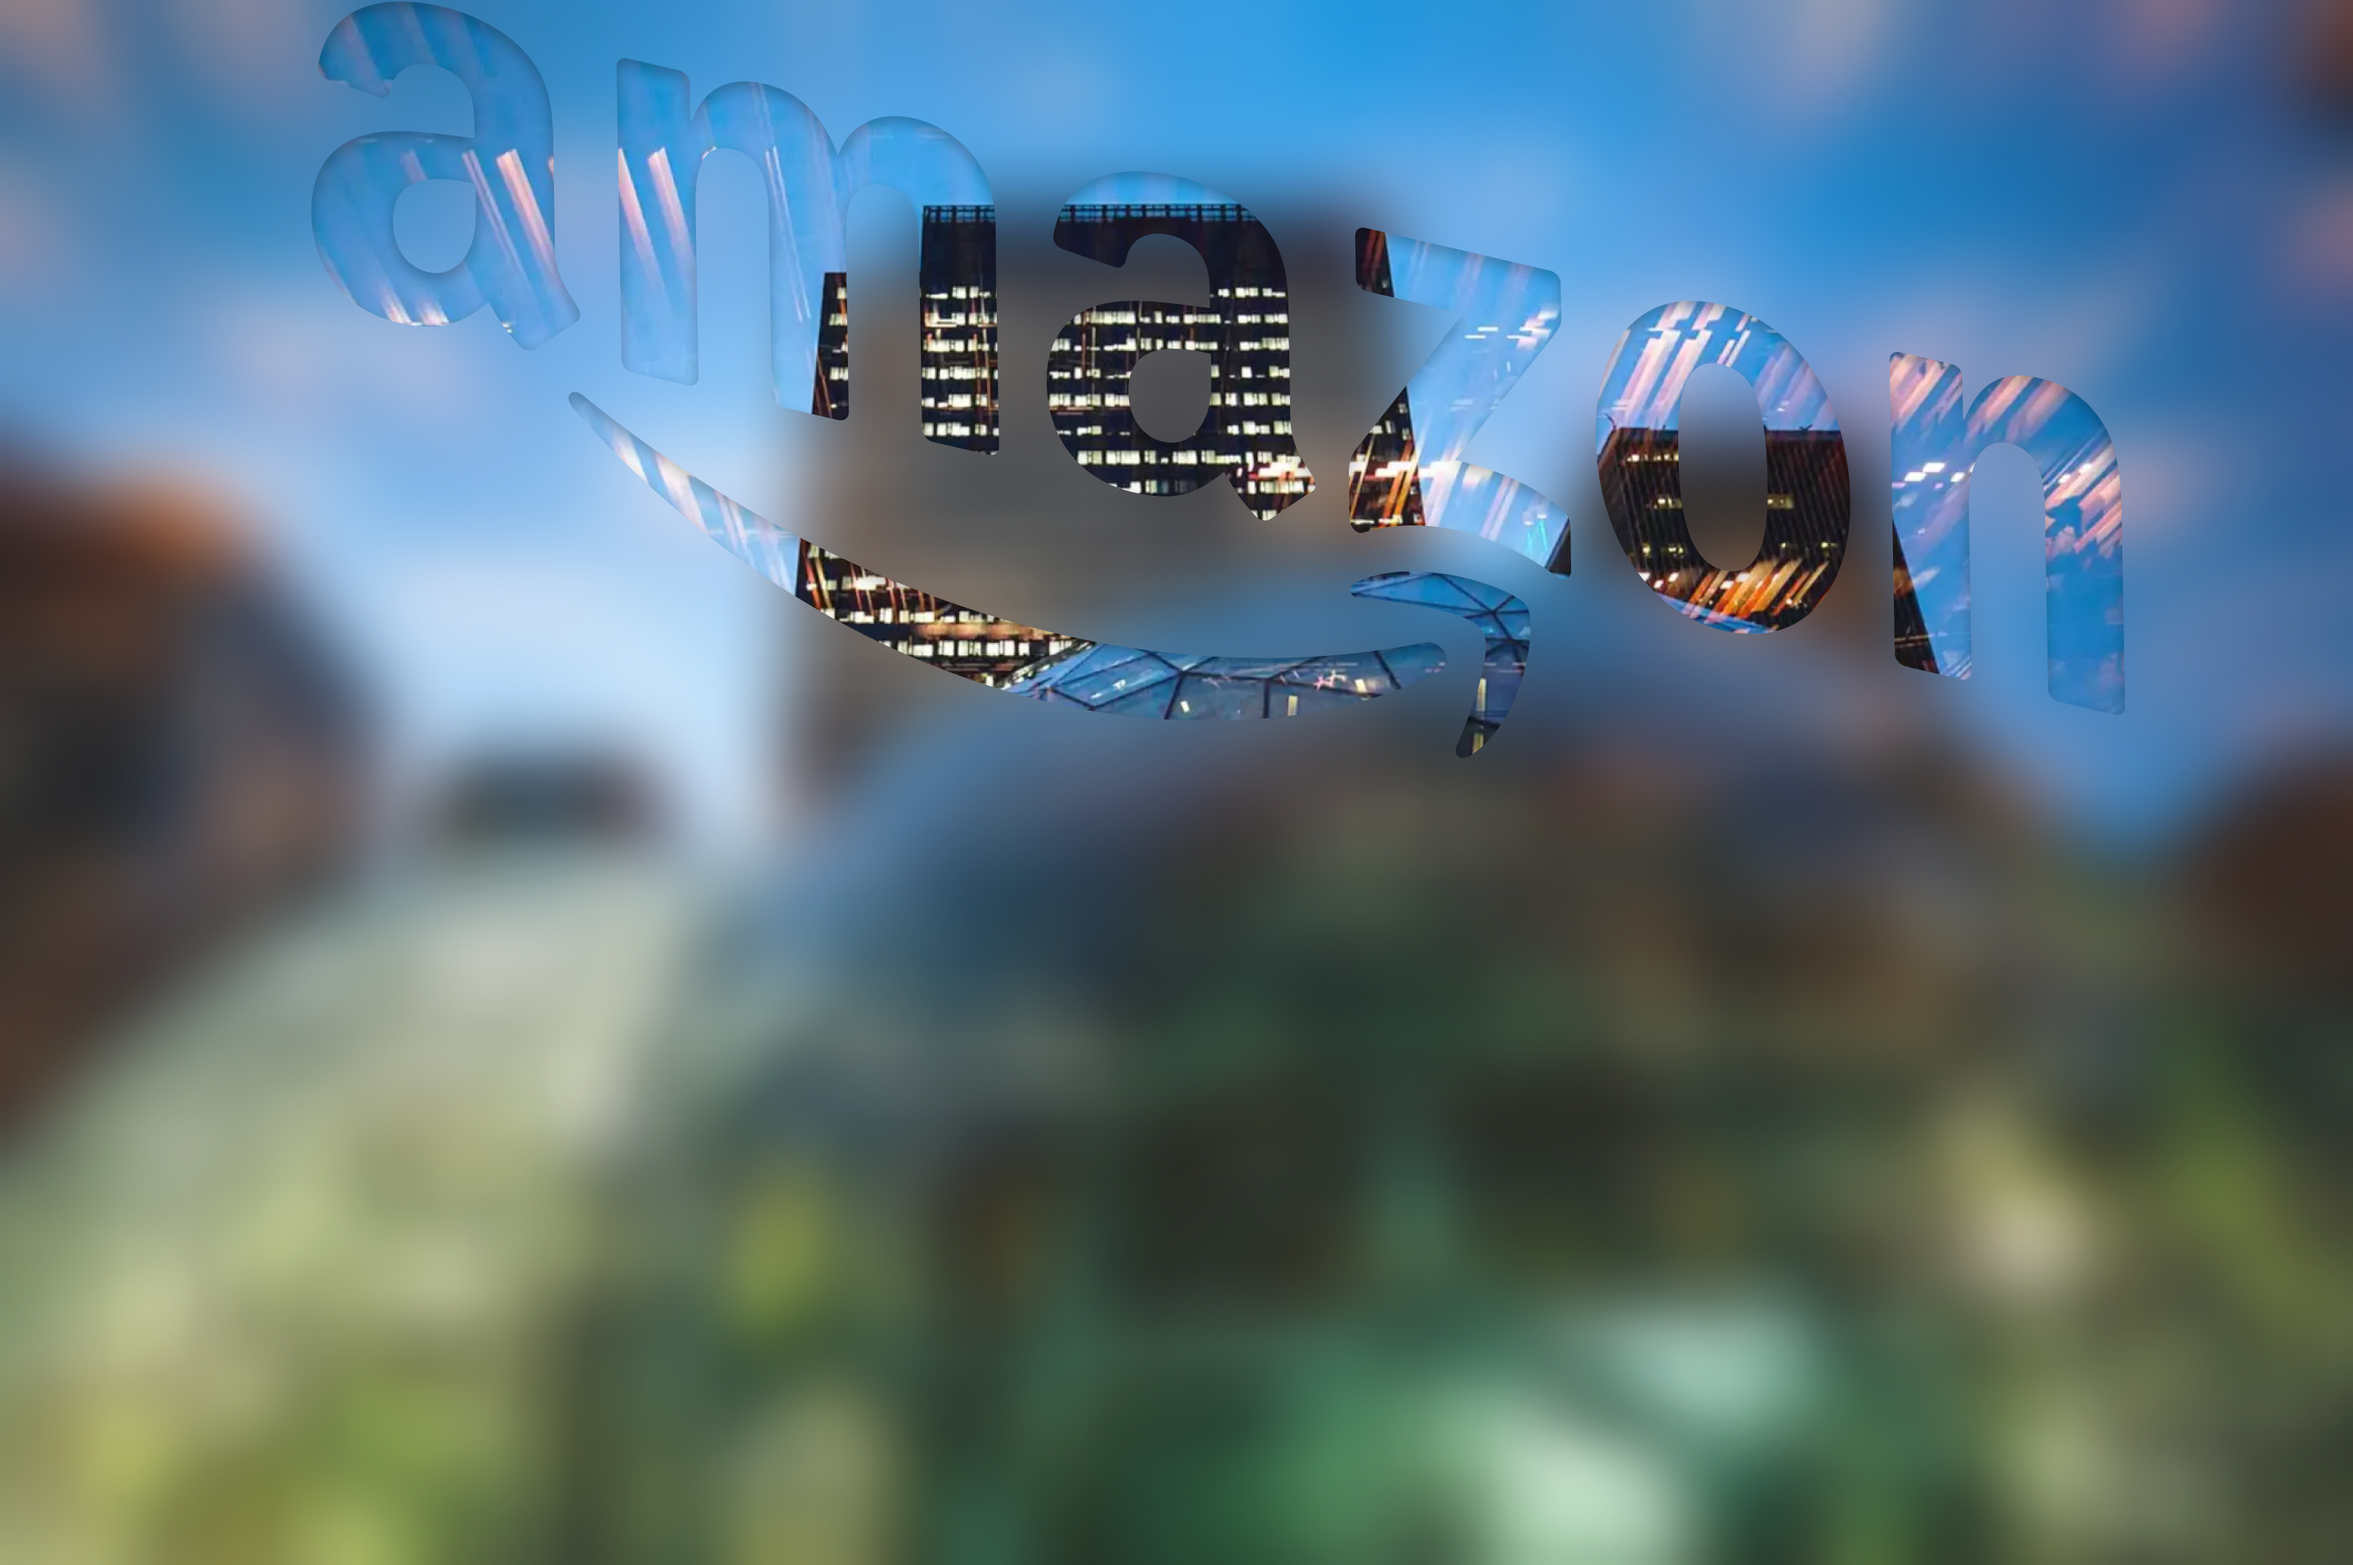
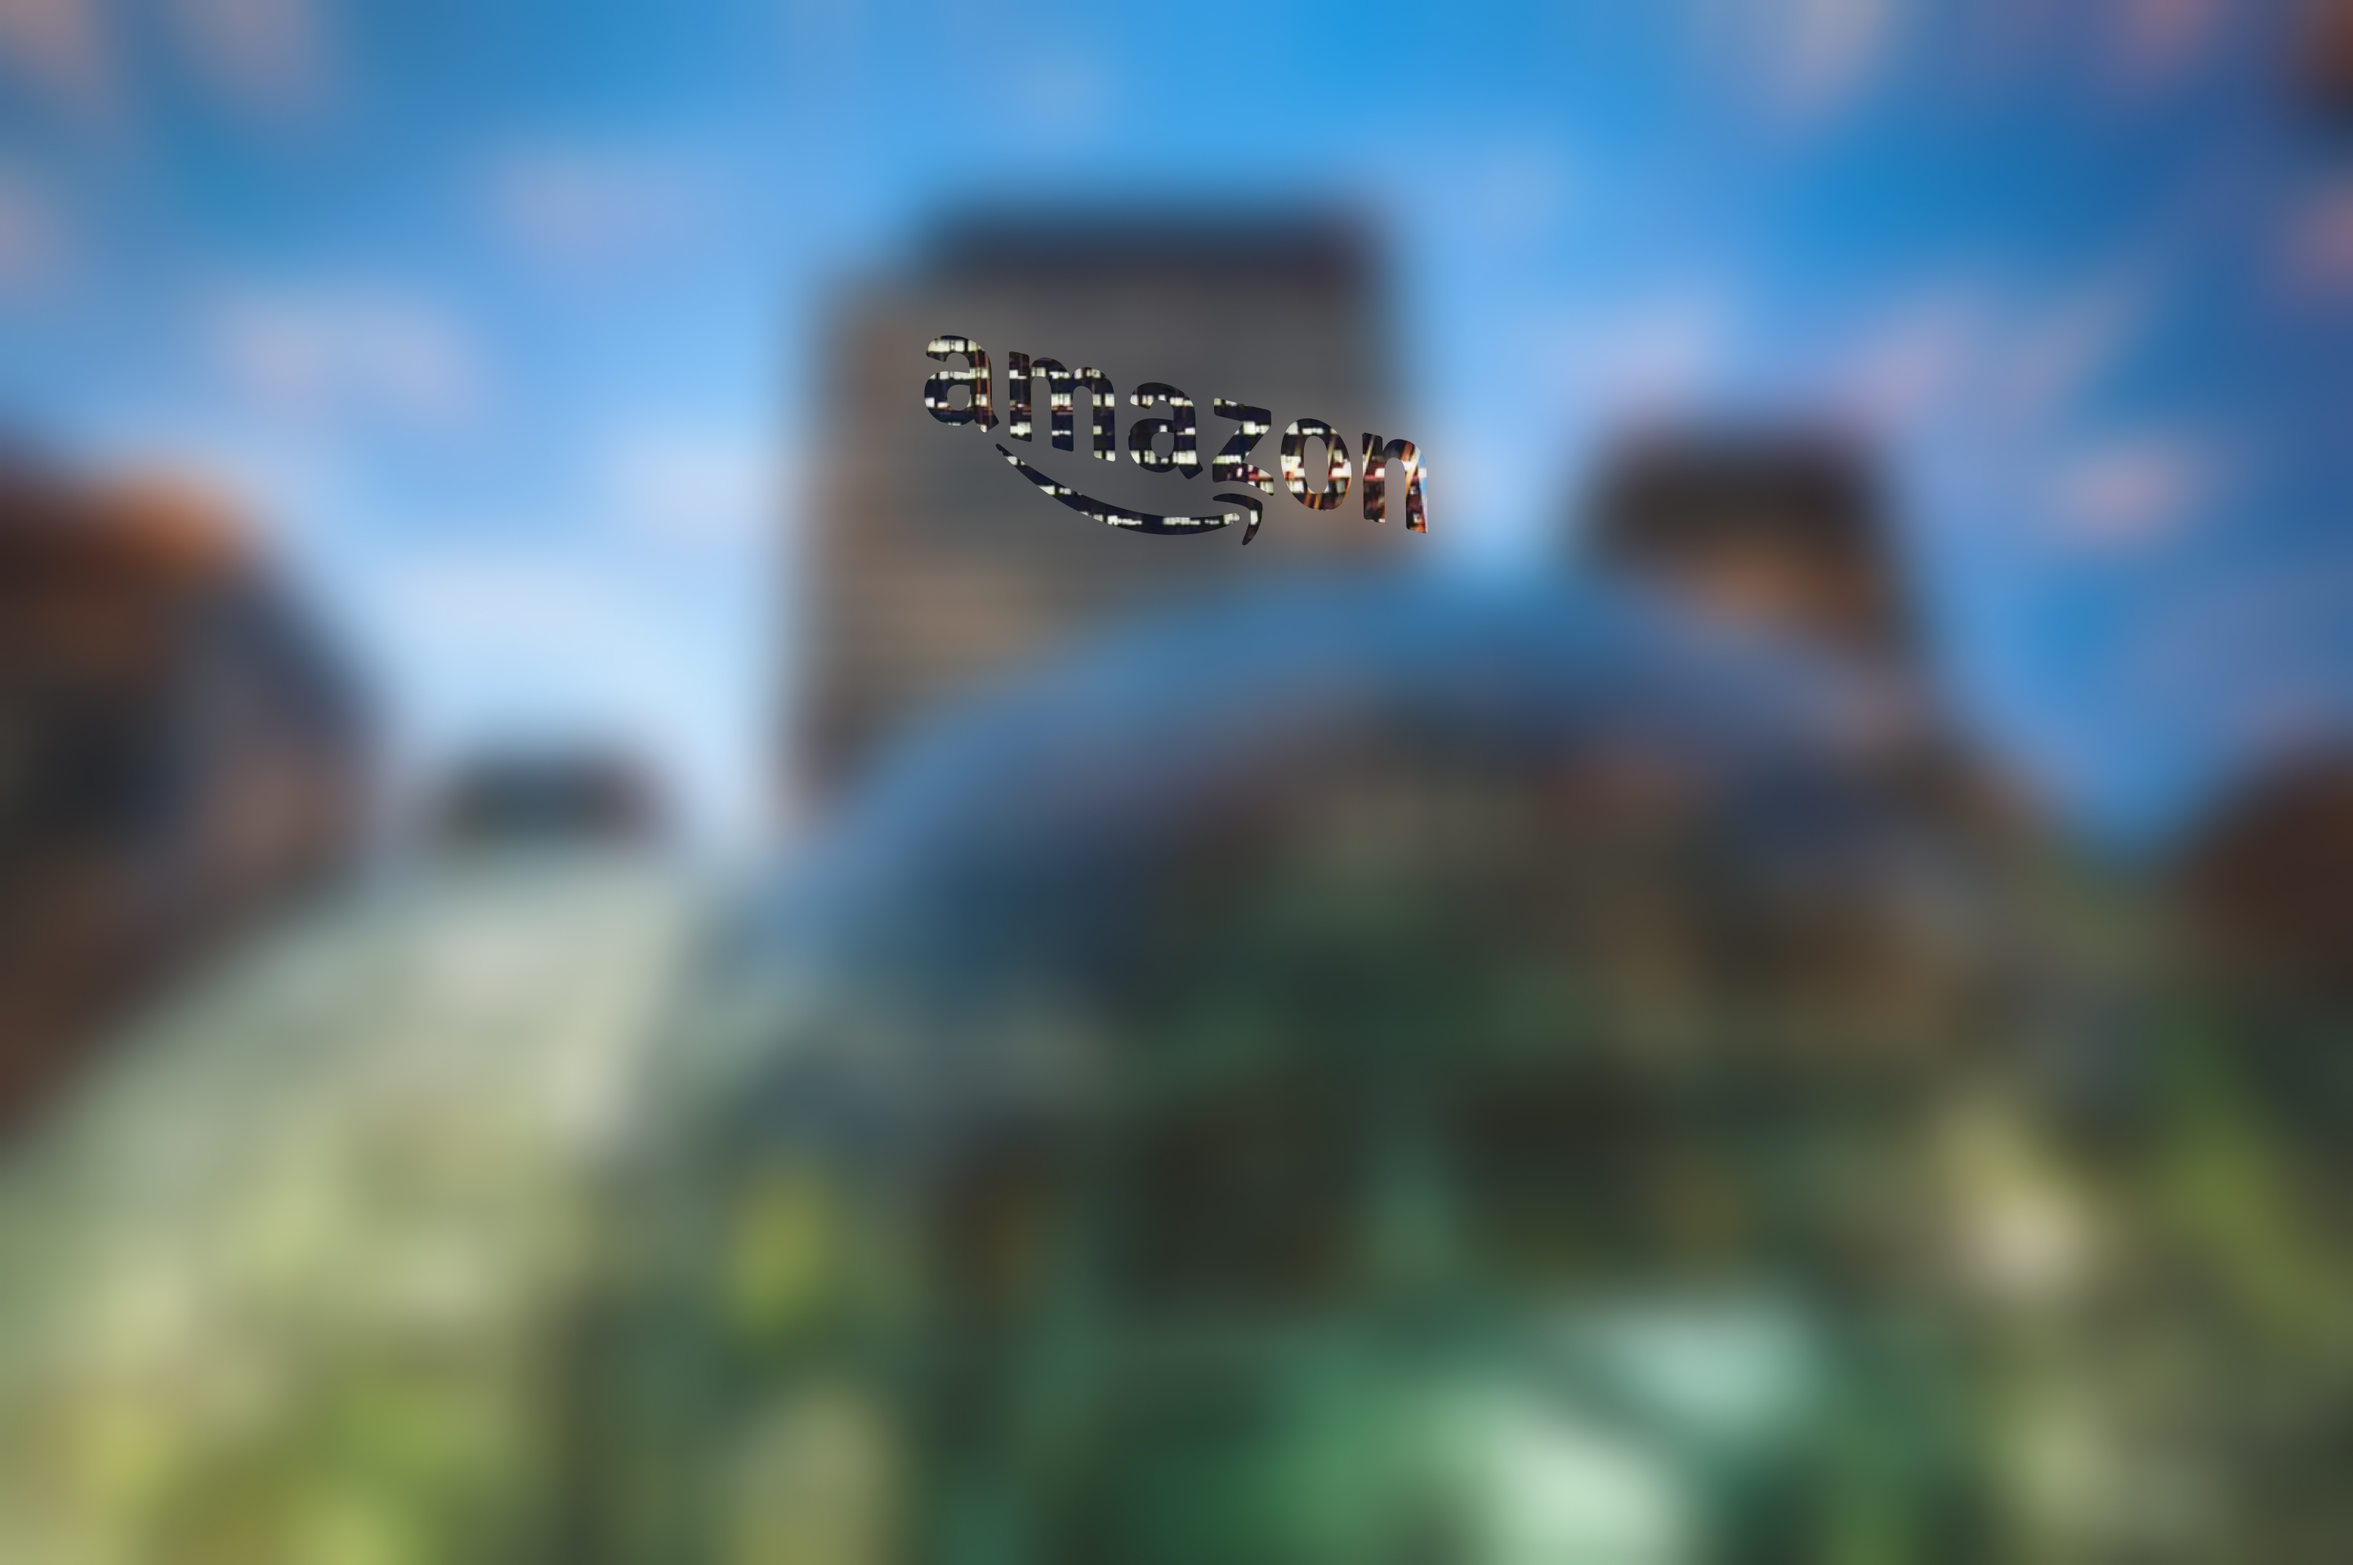
release

Changed region(s): [[0.125, 0.0, 0.9062, 0.4927]]

diff --git a/index.html b/index.html
@@ -5,11 +5,22 @@
     <meta name="viewport" content="width=device-width, initial-scale=1.0">
     <title>CK Commerce US</title>
 
+    <!-- google fonts -->
     <link rel="preconnect" href="https://fonts.googleapis.com">
     <link rel="preconnect" href="https://fonts.gstatic.com" crossorigin>
     <link href="https://fonts.googleapis.com/css2?family=Bebas+Neue&family=Montserrat:ital@0;1&display=swap" rel="stylesheet">
 
+    <!-- flipbox -->
     <link rel="stylesheet" href="flipbox.css">
+
+    <!-- favicon -->
+    <link rel="apple-touch-icon" sizes="180x180" href="apple-touch-icon.png">
+    <link rel="icon" type="image/png" sizes="32x32" href="favicon-32x32.png">
+    <link rel="icon" type="image/png" sizes="16x16" href="favicon-16x16.png">
+    <link rel="manifest" href="site.webmanifest">
+    <meta name="msapplication-TileColor" content="#da532c">
+    <meta name="theme-color" content="#ffffff">
+
 </head>
 <body>
     <div class="site-wrapper">
@@ -17,16 +28,18 @@
             <picture>
                 <source media="(max-width: 480px)" srcset="bg-mobile.jpg" />
                 <source media="(max-width: 768px)" srcset="bg-tablet.jpg" />
-                <source media="(min-width: 769px)" srcset="bg-desktop.jpg" />
-                <img src="bg-desktop.jpg" alt="">
+                <source media="(max-width: 1920px)" srcset="bg-desktop.jpg" />
+                <source media="(min-width: 1921px)" srcset="bg-widescreen.jpg" />
+                <img src="bg-widescreen.jpg" alt="">
             </picture>
         </div>
         <div class="overlay">
             <picture>
                 <source media="(max-width: 480px)" srcset="bg-overlay-mobile.jpg" />
                 <source media="(max-width: 768px)" srcset="bg-overlay-tablet.jpg" />
-                <source media="(min-width: 769px)" srcset="bg-overlay-desktop.jpg" />
-                <img src="bg-overlay-desktop.jpg" alt="">
+                <source media="(max-width: 1920px)" srcset="bg-overlay-desktop.jpg" />
+                <source media="(min-width: 1921px)" srcset="bg-overlay-widescreen.jpg" />
+                <img src="bg-overlay-widescreen.jpg" alt="">
             </picture>
         </div>
         <div class="text">
@@ -83,7 +96,8 @@
             position: relative;
             display: flex;
             overflow: hidden;
-            max-width: 1920px;
+            /* max-width: 1920px; */
+            max-width: 2560px;
             margin: auto;
         }
         .bg {
@@ -148,7 +162,10 @@
             display: flex;
             flex-direction: column;
             align-items: center;
-            padding: 384px 40px 40px;
+            padding-top: 22vw;
+            padding-left: 40px;
+            padding-right: 40px;
+            padding-bottom: 40px;
             color: #fff;
             text-align: center;
         }
@@ -196,7 +213,7 @@
             color: inherit;
         }
 
-        @media (min-width: 1441px) {
+        @media (max-width: 1920px) {
             .text {
                 padding-top: 26.66666666666667vw;
             }
@@ -205,6 +222,9 @@
             .bg img,
             .overlay img {
                 background-size: contain;
+            }
+            .text {
+                padding-top: 384px;
             }
         }
         @media (max-width: 768px) {
